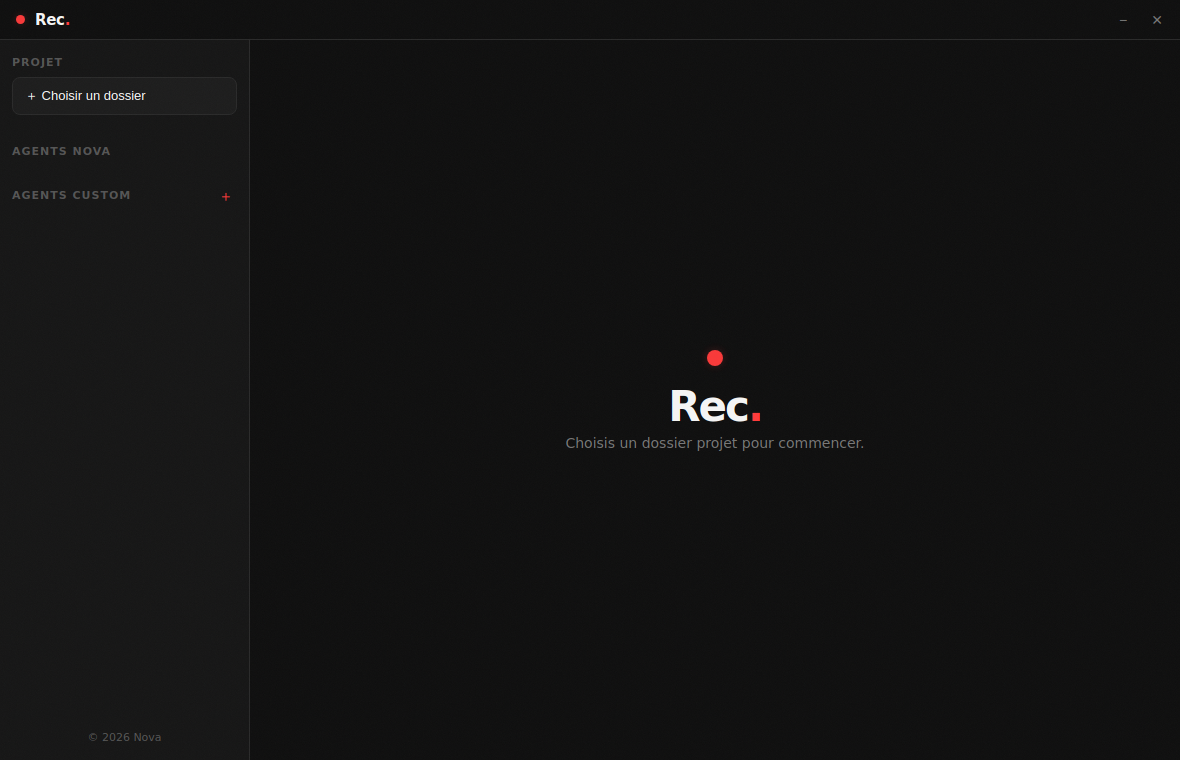
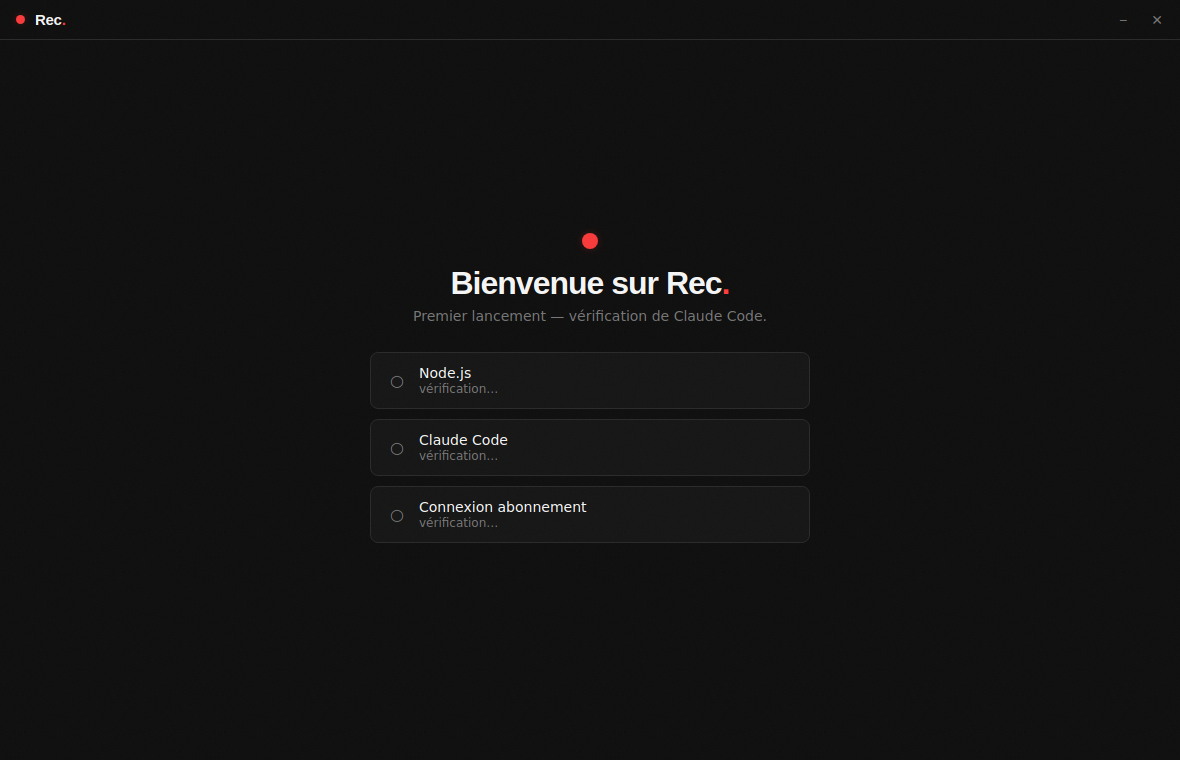
feat: onboarding 1er lancement — auto-check + install Claude Code
Écran d'accueil dans l'app : vérifie Node.js, Claude Code, connexion
abonnement. Installe Claude Code (npm -g) si manquant, ouvre un
terminal de connexion. Zéro prérequis manuel pour l'équipe.

- IPC check-env / install-claude / login-claude
- Gate bloque le chat tant que l'environnement n'est pas prêt
- Screenshot onboarding + README mis à jour

diff --git a/app/src/renderer.js b/app/src/renderer.js
@@ -207,5 +207,57 @@ document.addEventListener('click', (e) => {
   if (a) { e.preventDefault(); api.openExternal(a.href) }
 })
 
+// ---- first-run onboarding gate ----
+function setStep(id, state, val) {
+  const el = $('step-' + id)
+  el.classList.remove('ok', 'fail')
+  if (state) el.classList.add(state)
+  el.querySelector('.onb-ic').textContent = state === 'ok' ? '✓' : state === 'fail' ? '✕' : '○'
+  $('val-' + id).textContent = val
+}
+
+async function runGate() {
+  $('onboarding').style.display = 'flex'
+  const env = await api.checkEnv()
+  setStep('node', env.node ? 'ok' : 'fail', env.node || 'introuvable — installe Node.js')
+  setStep('claude', env.claude ? 'ok' : 'fail', env.claude || 'pas installé')
+  setStep('auth', env.authed ? 'ok' : 'fail', env.authed ? 'connecté' : 'pas connecté')
+
+  const actions = $('onb-actions'); actions.innerHTML = ''
+
+  if (!env.node) {
+    const a = btn('Installer Node.js', 'btn-primary', () => api.openExternal('https://nodejs.org/fr/download'))
+    actions.appendChild(a)
+    actions.appendChild(btn('Réessayer', 'btn-muted', runGate))
+    return
+  }
+  if (!env.claude) {
+    actions.appendChild(btn('Installer Claude Code', 'btn-primary', installClaude))
+    actions.appendChild(btn('Réessayer', 'btn-muted', runGate))
+    return
+  }
+  if (!env.authed) {
+    actions.appendChild(btn('Se connecter à Claude', 'btn-primary', async () => { await api.loginClaude(); }))
+    actions.appendChild(btn('J\'ai terminé — Réessayer', 'btn-muted', runGate))
+    const hint = el('p', 'onb-sub', 'Une fenêtre terminal s\'ouvre. Connecte-toi avec ton compte (Pro/Max), puis reviens et clique « Réessayer ».')
+    actions.appendChild(hint)
+    return
+  }
+  // all good
+  actions.appendChild(btn('Entrer dans Rec.', 'btn-primary', () => { $('onboarding').style.display = 'none' }))
+}
+
+async function installClaude() {
+  const log = $('onb-log'); log.style.display = 'block'; log.textContent = '› Installation de Claude Code…\n'
+  $('onb-actions').innerHTML = '<div class="onb-sub">Installation en cours…</div>'
+  const off = api.onInstallLog((d) => { log.textContent += d.text; log.scrollTop = log.scrollHeight })
+  await api.installClaude()
+  off()
+  runGate()
+}
+
+function btn(label, cls, onclick) { const b = el('button', cls, label); b.onclick = onclick; return b }
+
 // init
+runGate()
 refreshProjects()

diff --git a/app/main.js b/app/main.js
@@ -2,6 +2,7 @@ const { app, BrowserWindow, ipcMain, dialog, shell } = require('electron')
 const path = require('path')
 const fs = require('fs')
 const os = require('os')
+const { spawn, exec } = require('child_process')
 
 let win
 let sdk = null // lazy-loaded ESM SDK
@@ -37,6 +38,47 @@ app.on('activate', () => { if (BrowserWindow.getAllWindows().length === 0) creat
 // ---- window controls ----
 ipcMain.on('win-minimize', () => win?.minimize())
 ipcMain.on('win-close', () => win?.close())
+
+// ---- first-run environment gate ----
+function cmdVersion(cmd) {
+  return new Promise((res) => {
+    exec(`${cmd} --version`, { timeout: 9000 }, (err, out) => res(err ? null : String(out).trim().split('\n')[0]))
+  })
+}
+
+ipcMain.handle('check-env', async () => {
+  const node = await cmdVersion('node')
+  const claude = await cmdVersion('claude')
+  // auth: Claude Code stores credentials under ~/.claude
+  let authed = false
+  try {
+    const base = path.join(os.homedir(), '.claude')
+    authed = fs.existsSync(path.join(base, '.credentials.json')) ||
+             fs.existsSync(path.join(base, 'config.json'))
+  } catch {}
+  return { node, claude, authed }
+})
+
+ipcMain.handle('install-claude', (e) => new Promise((resolve) => {
+  const npm = process.platform === 'win32' ? 'npm.cmd' : 'npm'
+  const p = spawn(npm, ['install', '-g', '@anthropic-ai/claude-code'], { shell: true })
+  p.stdout.on('data', d => e.sender.send('install-log', { text: d.toString() }))
+  p.stderr.on('data', d => e.sender.send('install-log', { text: d.toString() }))
+  p.on('close', (code) => resolve({ code }))
+  p.on('error', (err) => { e.sender.send('install-log', { text: 'Erreur: ' + err.message }); resolve({ code: 1 }) })
+}))
+
+ipcMain.handle('login-claude', () => {
+  // open an interactive terminal running `claude` so the user can log in (browser flow)
+  if (process.platform === 'win32') {
+    spawn('cmd', ['/c', 'start', 'cmd', '/k', 'claude'], { shell: true, detached: true })
+  } else if (process.platform === 'darwin') {
+    spawn('osascript', ['-e', 'tell app "Terminal" to do script "claude"'], { detached: true })
+  } else {
+    spawn('sh', ['-c', 'claude'], { detached: true })
+  }
+  return true
+})
 
 // ---- recent projects store ----
 const storePath = path.join(app.getPath('userData'), 'rec-projects.json')

diff --git a/app/src/index.html b/app/src/index.html
@@ -23,6 +23,34 @@
     </div>
   </div>
 
+  <!-- first-run onboarding gate -->
+  <div class="onboarding" id="onboarding" style="display:none">
+    <div class="onb-card">
+      <span class="rec-dot big"></span>
+      <h2>Bienvenue sur Rec<span class="accent">.</span></h2>
+      <p class="onb-sub">Premier lancement — vérification de Claude Code.</p>
+
+      <div class="onb-steps">
+        <div class="onb-step" id="step-node">
+          <span class="onb-ic">○</span>
+          <div><div class="onb-name">Node.js</div><div class="onb-val" id="val-node">vérification…</div></div>
+        </div>
+        <div class="onb-step" id="step-claude">
+          <span class="onb-ic">○</span>
+          <div><div class="onb-name">Claude Code</div><div class="onb-val" id="val-claude">vérification…</div></div>
+        </div>
+        <div class="onb-step" id="step-auth">
+          <span class="onb-ic">○</span>
+          <div><div class="onb-name">Connexion abonnement</div><div class="onb-val" id="val-auth">vérification…</div></div>
+        </div>
+      </div>
+
+      <div class="onb-log" id="onb-log" style="display:none"></div>
+
+      <div class="onb-actions" id="onb-actions"></div>
+    </div>
+  </div>
+
   <div class="layout">
     <!-- sidebar -->
     <aside class="sidebar">

diff --git a/app/src/styles.css b/app/src/styles.css
@@ -73,6 +73,34 @@ body::before {
 .tb-btn:hover { background: var(--surface-2); color: var(--text); }
 .tb-btn.close:hover { background: var(--accent); color: #fff; }
 
+/* onboarding gate */
+.onboarding {
+  position: fixed; inset: 40px 0 0 0; z-index: 500; background: var(--bg);
+  display: flex; align-items: center; justify-content: center; padding: 24px;
+}
+.onb-card { width: 100%; max-width: 440px; display: flex; flex-direction: column; align-items: center; }
+.onb-card h2 { font-family: 'Plus Jakarta Sans', sans-serif; font-weight: 800; font-size: 32px; letter-spacing: -1px; margin-top: 4px; }
+.onb-sub { color: var(--muted); margin: 6px 0 28px; font-size: 14px; text-align: center; }
+.onb-steps { width: 100%; display: flex; flex-direction: column; gap: 10px; }
+.onb-step {
+  display: flex; align-items: center; gap: 12px; padding: 12px 16px;
+  background: var(--surface); border: 1px solid var(--border); border-radius: var(--radius-sm);
+}
+.onb-step.ok { border-color: rgba(16,185,129,.4); }
+.onb-step.fail { border-color: rgba(255,59,59,.4); }
+.onb-ic { font-size: 16px; width: 20px; text-align: center; color: var(--muted); }
+.onb-step.ok .onb-ic { color: var(--success); }
+.onb-step.fail .onb-ic { color: var(--accent); }
+.onb-name { font-size: 14px; font-weight: 500; }
+.onb-val { font-size: 12px; color: var(--muted); margin-top: 1px; }
+.onb-log {
+  width: 100%; margin-top: 16px; max-height: 150px; overflow-y: auto; background: var(--surface);
+  border: 1px solid var(--border); border-radius: var(--radius-sm); padding: 10px 12px;
+  font-family: 'Cascadia Code', Consolas, monospace; font-size: 11.5px; color: var(--muted);
+  white-space: pre-wrap; line-height: 1.5;
+}
+.onb-actions { width: 100%; margin-top: 24px; display: flex; flex-direction: column; gap: 10px; }
+
 /* layout */
 .layout { display: flex; height: calc(100vh - 40px); }
 

diff --git a/app/capture.js b/app/capture.js
@@ -22,5 +22,23 @@ app.whenReady().then(async () => {
   fs.writeFileSync(path.join(OUT, 'app-chat.png'), (await win.webContents.capturePage()).toPNG())
   console.log('✓ app-chat.png')
 
+  // shot 3: onboarding gate (simulated states)
+  await win.webContents.executeJavaScript(`
+    document.getElementById('onboarding').style.display = 'flex';
+    function S(id,st,val){var e=document.getElementById('step-'+id);e.classList.add(st);
+      e.querySelector('.onb-ic').textContent= st==='ok'?'✓':'✕';
+      document.getElementById('val-'+id).textContent=val;}
+    S('node','ok','v20.11.0');
+    S('claude','ok','2.0.1 (Claude Code)');
+    S('auth','fail','pas connecté');
+    document.getElementById('onb-actions').innerHTML =
+      '<button class="btn-primary">Se connecter à Claude</button>' +
+      '<button class="btn-muted">J\\'ai terminé — Réessayer</button>' +
+      '<p class="onb-sub">Une fenêtre terminal s\\'ouvre. Connecte-toi (Pro/Max), puis reviens et clique « Réessayer ».</p>';
+  `)
+  await new Promise(r => setTimeout(r, 800))
+  fs.writeFileSync(path.join(OUT, 'app-onboarding.png'), (await win.webContents.capturePage()).toPNG())
+  console.log('✓ app-onboarding.png')
+
   app.quit()
 })

diff --git a/app/preload.js b/app/preload.js
@@ -15,6 +15,12 @@ contextBridge.exposeInMainWorld('api', {
   saveAgent: (projectPath, agent) => ipcRenderer.invoke('save-agent', projectPath, agent),
   deleteAgent: (projectPath, id) => ipcRenderer.invoke('delete-agent', projectPath, id),
 
+  // first-run env gate
+  checkEnv: () => ipcRenderer.invoke('check-env'),
+  installClaude: () => ipcRenderer.invoke('install-claude'),
+  loginClaude: () => ipcRenderer.invoke('login-claude'),
+  onInstallLog: (cb) => { const fn = (_e, d) => cb(d); ipcRenderer.on('install-log', fn); return () => ipcRenderer.removeListener('install-log', fn) },
+
   // config / MCP
   getConfig: () => ipcRenderer.invoke('get-config'),
   saveConfig: (patch) => ipcRenderer.invoke('save-config', patch),

diff --git a/README.md b/README.md
@@ -42,14 +42,19 @@ Nouvelle app desktop : une **interface rouge où tu discutes avec Claude**, sans
 - 🤖 **Agents custom** — crée tes propres agents (nom, rôle, outils) partagés via git
 - 🔒 **Auth abonnement** — réutilise la connexion Claude Code de chaque membre
 
-**Lancer l'app :**
-```bash
+### Installation zéro-prise-de-tête
+
+Au **premier lancement**, Rec. vérifie tout seul Node.js, Claude Code et la connexion — et installe ce qui manque. L'équipe n'a rien à faire dans un terminal.
+
+![Onboarding](docs/screens/app-onboarding.png)
+
+**Pour distribuer un `.exe` à l'équipe :**
+```powershell
 cd app
 npm install
-npm start
+npm run build-win
 ```
-
-Prérequis : [Claude Code](https://claude.ai/code) installé + connecté (plan Pro/Max).
+→ `app\dist\Rec. Setup 1.0.0.exe` — double-clic, comme n'importe quel logiciel.
 
 ---
 